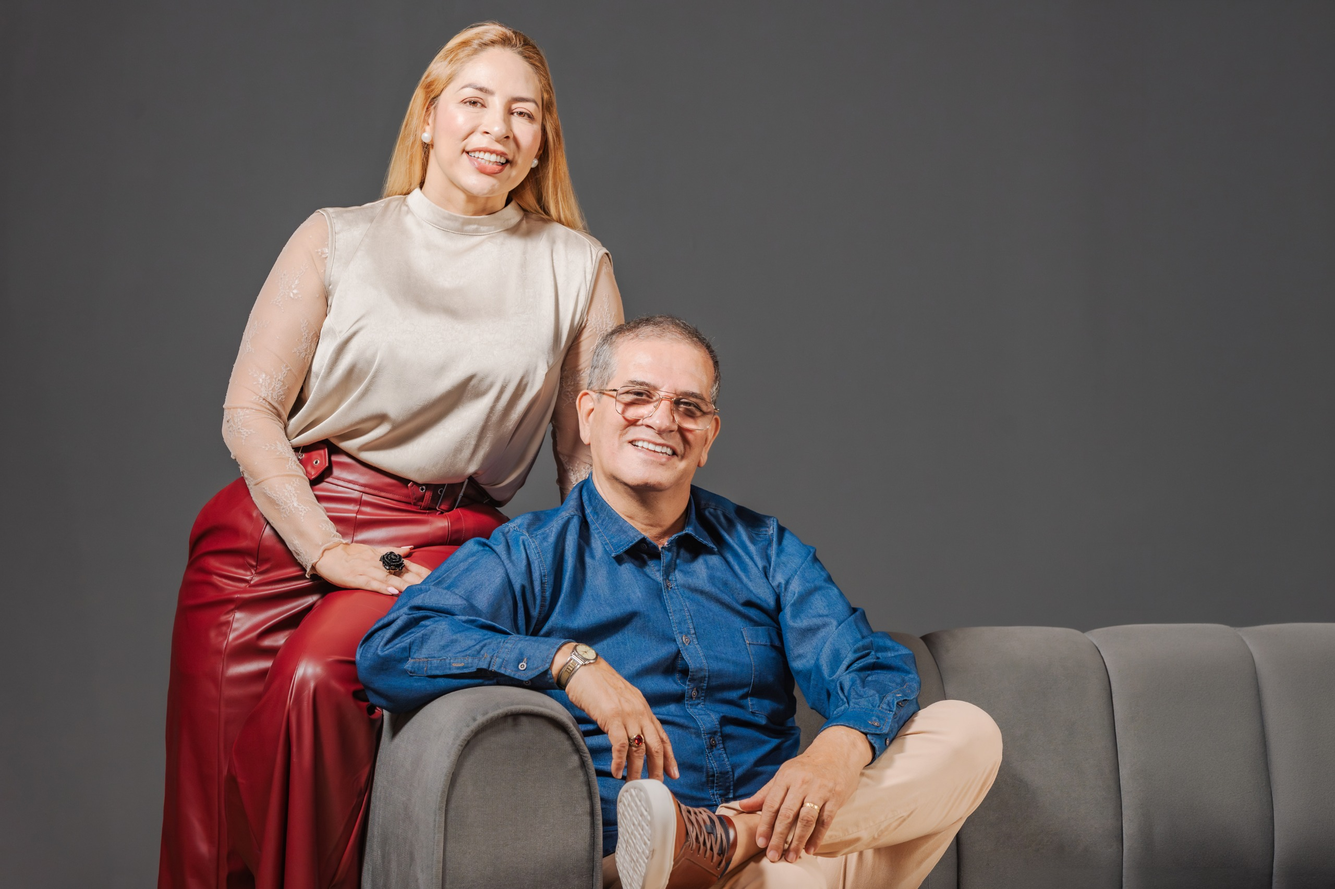
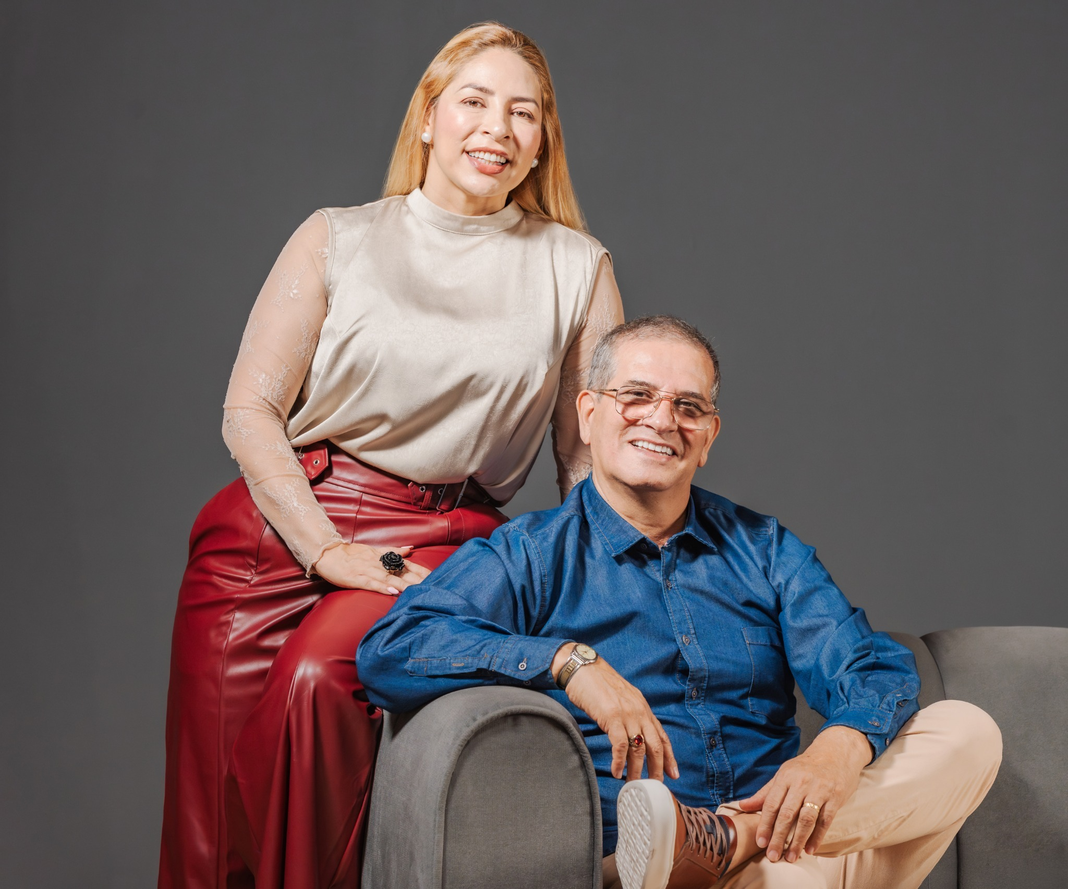
Actualización detalles

diff --git a/pages/projects.html b/pages/projects.html
@@ -768,6 +768,47 @@ Durante los últimos años Dios nos ha permitido servir en Colombia y en diferen
     }
 </style>
 
+
+<script>
+    // Mobile Menu Toggle
+    const mobileMenuBtn = document.getElementById('mobileMenuBtn');
+    const mobileMenu = document.getElementById('mobileMenu');
+
+    if (mobileMenuBtn && mobileMenu) {
+        mobileMenuBtn.addEventListener('click', () => {
+            mobileMenu.classList.toggle('hidden');
+        });
+    }
+</script>
+
+<script>
+    document.addEventListener('DOMContentLoaded', function () {
+        const track = document.getElementById('testimonial-track');
+        const prevBtn = document.getElementById('testimonial-prev');
+        const nextBtn = document.getElementById('testimonial-next');
+
+        if (!track || !prevBtn || !nextBtn) {
+            console.warn('Carrusel de testimonios: no se encontraron los elementos en el DOM.');
+            return;
+        }
+
+        function getStep() {
+            const firstCard = track.querySelector('.testimonial-card');
+            if (!firstCard) return 300;
+            const gap = 24;
+            return firstCard.offsetWidth + gap;
+        }
+
+        prevBtn.addEventListener('click', function () {
+            track.scrollBy({ left: -getStep(), behavior: 'smooth' });
+        });
+
+        nextBtn.addEventListener('click', function () {
+            track.scrollBy({ left: getStep(), behavior: 'smooth' });
+        });
+    });
+</script>
+
 <script>
     document.addEventListener('DOMContentLoaded', function () {
         const track = document.getElementById('testimonial-track');

diff --git a/pages/about.html b/pages/about.html
@@ -336,7 +336,7 @@
                 <!-- Story Image -->
                 <div class="relative">
                     <div class="relative rounded-2xl overflow-hidden shadow-strong">
-                        <img src="images/Pastoresfundadores2.jpeg" 
+                        <img src="images/pastoresfundadores.jpeg" 
                              alt="Interior acogedor de Grace Community con personas conversando en ambiente cálido y auténtico, reflejando comunidad genuina" 
                              class="w-full aspect-[4/3] object-cover"
                              loading="lazy"

diff --git a/pages/homepage.html b/pages/homepage.html
@@ -1021,10 +1021,10 @@ rel="noopener noreferrer" class="bg-surface hover:bg-secondary w-12 h-12 rounded
             });
         }, observerOptions);
 
-        document.querySelectorAll('.card, .card-elevated, .card-gold').forEach(el => {
+                document.querySelectorAll('.card, .card-elevated, .card-gold').forEach(el => {
             observer.observe(el);
         });
-    
+    </script>
 <script id="dhws-dataInjector" src="../public/dhws-data-injector.js"></script>
 </body>
 </html>
